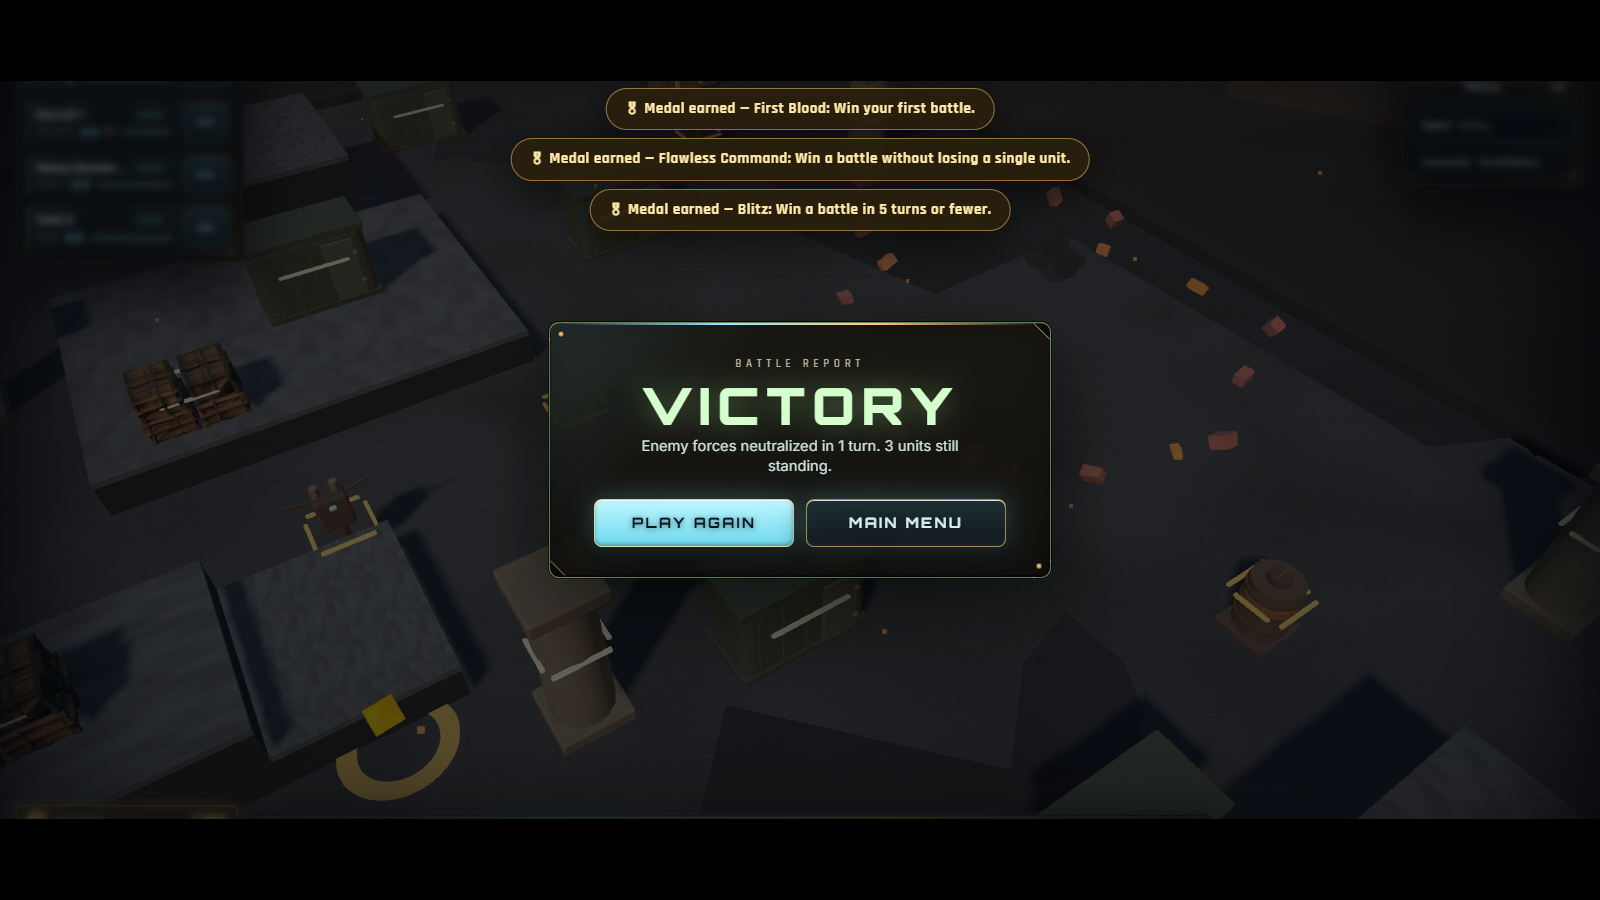
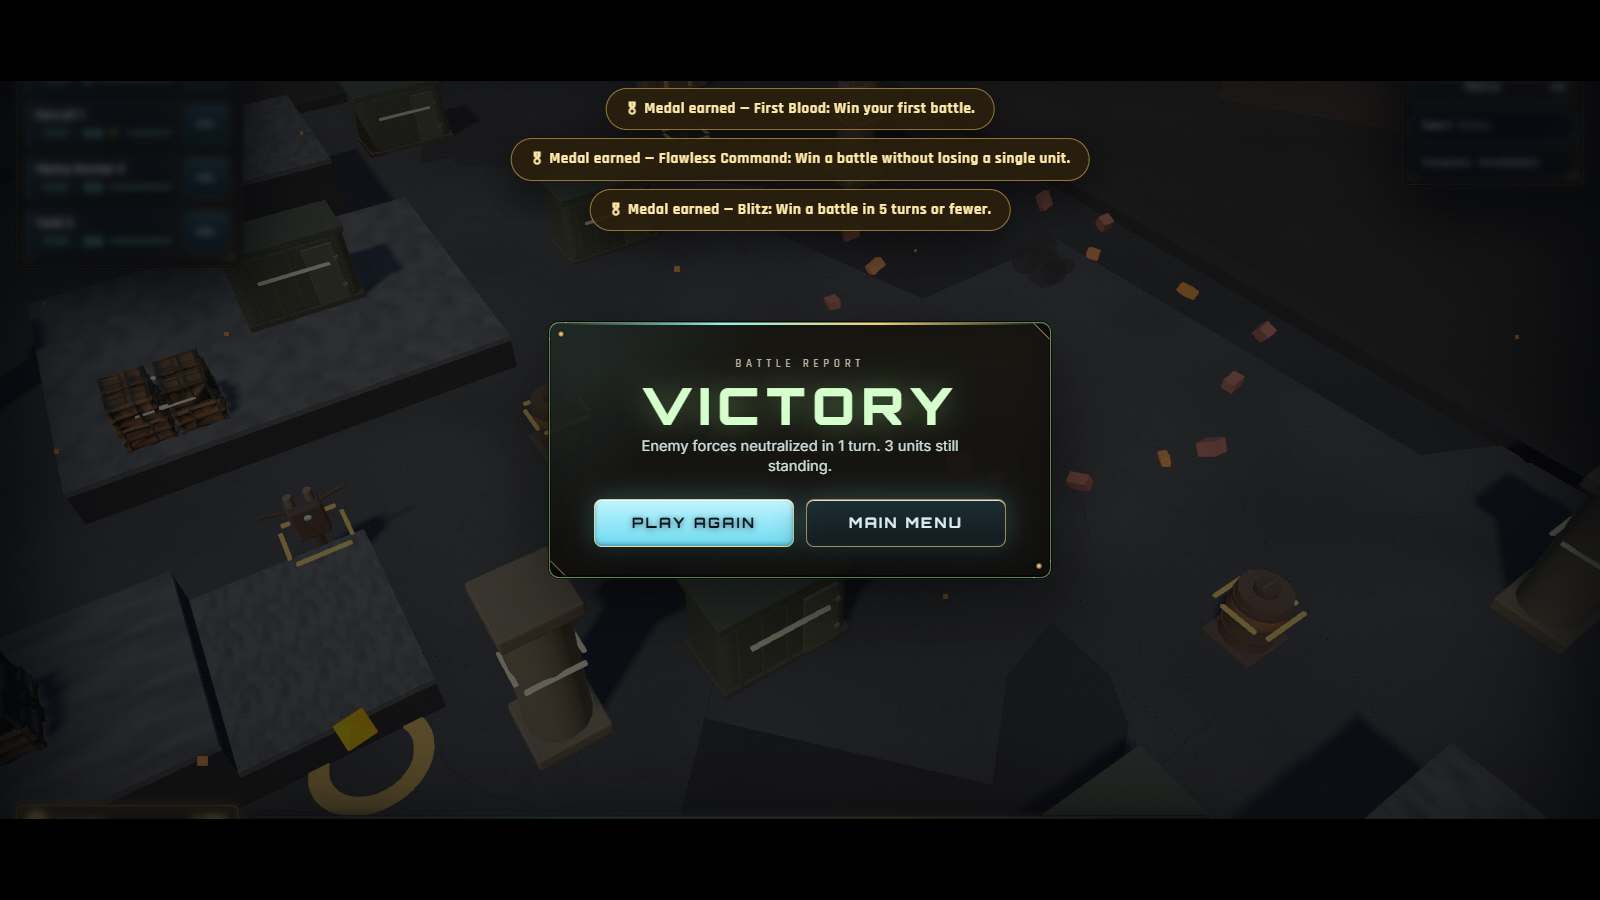
Range as a board field; kill both ground-striping artefacts
The action range was a RingGeometry(0.98, 1.02) — a 4%-thick hairline that reads as
a wireframe laid over the game rather than as part of the board. Direction A wants
reach shown as a board overlay, so it is a field now: a soft tinted area brightening
into a defined rim, shape carried by a 256px gradient texture instead of geometry,
still one mesh and one draw call, tinted per action by the material's own colour.

Then the striping across the ground, which turns out to have been TWO artefacts
wearing the same face:

- Shadow acne on the near-flat arena under a low sun. normalBias has to be several
  shadow texels and was a tenth of one; 0.55 is the measured floor, and 0.4 brings
  the bands back. This is the one `npm run probe:shadow` finds, because turning off
  scenery casting removes it.
- A coplanar z-fight between the ground plates themselves. Four overlapping slabs per
  patch all topped out at exactly y=0, so wherever they overlapped they hatched
  against each other. Each slab is staggered ~2mm in depth now. This one SURVIVES the
  shadow probe — it is a main-pass depth issue, not a shadow one — which is how the
  two can be told apart at all.

Also: the roster hugged nothing and stretched a four-unit squad into a full-height
empty box after yesterday's no-overlap fix. It is back to hugging its content with a
max-height sized off the same gap, so the overlap guarantee holds without the void.
[…]

diff --git a/game/src/render/worldRenderer.ts b/game/src/render/worldRenderer.ts
@@ -165,9 +165,20 @@ export class WorldRenderer {
     this.targetRing.position.y = 0.055;
     this.scene.add(this.targetRing);
 
+    // The action range used to be a 4%-thick hairline ring: at tactical distance that reads as a
+    // wireframe overlaid on the game, not as part of the board. It is a FIELD now — a soft tinted
+    // area that brightens into a defined rim — which is how a tactics board shows reach. Same one
+    // mesh, one draw call; the shape lives in a 256px gradient texture instead of in geometry.
     this.actionRangeRing = new THREE.Mesh(
-      new THREE.RingGeometry(0.98, 1.02, 96),
-      new THREE.MeshBasicMaterial({ color: 0xffbf4d, transparent: true, opacity: 0.42, side: THREE.DoubleSide, depthWrite: false })
+      new THREE.PlaneGeometry(2, 2),
+      new THREE.MeshBasicMaterial({
+        color: 0xffbf4d,
+        map: rangeFieldTexture(),
+        transparent: true,
+        opacity: 0.42,
+        side: THREE.DoubleSide,
+        depthWrite: false,
+      })
     );
     this.actionRangeRing.rotation.x = -Math.PI / 2;
     this.actionRangeRing.position.y = 0.06;
@@ -2683,7 +2694,8 @@ export class WorldRenderer {
     this.actionRangeRing.scale.setScalar(range.radius * (1 + pulse * 0.01));
     const mat = this.actionRangeRing.material as THREE.MeshBasicMaterial;
     mat.color.setHex(range.kind === "melee" ? 0xd28cff : range.kind === "grenade" ? 0xff7f67 : range.kind === "move" ? 0x9dfcff : 0xffbf4d);
-    mat.opacity = 0.34 + pulse * 0.16;
+    // A field carries far more ink than a hairline did, so it sits lower in opacity.
+    mat.opacity = 0.46 + pulse * 0.12;
   }
 
   // Faint rings showing the reach of support/spotter auras (medic, engineer, scout, sniper),
@@ -4586,8 +4598,12 @@ function makeGroundPlates(theme: MapTheme, width: number, depth: number, surface
         // terrace the player can walk straight over is a lie about the terrain.
         const geo = new RoundedBoxGeometry(w, PLATE_THICKNESS, d, 1, Math.min(1.4, Math.min(w, d) * 0.3));
         const m = new THREE.Matrix4()
+          // Stagger each slab of a patch a couple of millimetres in depth. Four overlapping slabs
+          // all topping out at exactly y=0 are COPLANAR where they overlap, and coplanar surfaces
+          // z-fight into a fine parallel hatch — the second of the two striping artefacts on the
+          // ground, and the one the shadow work could never have fixed.
           .makeRotationY(spin + (rand() - 0.5) * 1.6)
-          .setPosition(cx + (rand() - 0.5) * 7, 0, cz + (rand() - 0.5) * 7);
+          .setPosition(cx + (rand() - 0.5) * 7, -k * 0.0018, cz + (rand() - 0.5) * 7);
         geo.applyMatrix4(m);
         parts.push(geo);
       }
@@ -5208,6 +5224,37 @@ const CARRY_PITCH = 0.34;
 const CARRY_YAW = -0.26;
 const CARRY_PIVOT_Y = 0.93;
 const CARRY_PIVOT_Z = 0.12;
+
+/**
+ * The range-field gradient: transparent at the centre, a low tint across the body, brightening into
+ * a defined rim just inside the edge and falling off outside it. Tinted per use by the material's
+ * own colour, so one texture serves move / shoot / grenade / melee.
+ */
+let _rangeFieldTexture: THREE.CanvasTexture | undefined;
+
+function rangeFieldTexture(): THREE.CanvasTexture {
+  if (_rangeFieldTexture) return _rangeFieldTexture;
+  const size = 256;
+  const canvas = document.createElement("canvas");
+  canvas.width = canvas.height = size;
+  const ctx = canvas.getContext("2d");
+  if (ctx) {
+    const g = ctx.createRadialGradient(size / 2, size / 2, 0, size / 2, size / 2, size / 2);
+    g.addColorStop(0, "rgba(255,255,255,0.10)");
+    g.addColorStop(0.55, "rgba(255,255,255,0.26)");
+    g.addColorStop(0.88, "rgba(255,255,255,0.55)");
+    g.addColorStop(0.965, "rgba(255,255,255,1)");
+    g.addColorStop(0.995, "rgba(255,255,255,0.55)");
+    g.addColorStop(1, "rgba(255,255,255,0)");
+    ctx.fillStyle = g;
+    ctx.fillRect(0, 0, size, size);
+  }
+  const texture = new THREE.CanvasTexture(canvas);
+  texture.colorSpace = THREE.SRGBColorSpace;
+  texture.userData.shared = true;
+  _rangeFieldTexture = texture;
+  return texture;
+}
 
 // Hex -> Color memo. THREE.Color.setHex re-runs the sRGB->linear conversion on every call, and
 // paintPart asks for a handful of fixed tint/glow constants for every part mesh every frame — that

diff --git a/game/src/style.css b/game/src/style.css
@@ -5222,8 +5222,11 @@ body.killcam::after { bottom: 0; }
    --------------------------------------------------------------------------- */
 .panel.roster {
   top: 16px;
-  bottom: 106px;
-  max-height: none;
+  /* Hug the content, but never reach the bottom-left stack. Anchoring top AND bottom stretched a
+     four-unit squad into a full-height empty box; a max-height sized off the same gap keeps the
+     no-overlap guarantee without the void. */
+  bottom: auto;
+  max-height: calc(100vh - 122px);
   overflow-y: auto;
   overscroll-behavior: contain;
 }

diff --git a/game/src/render/stage.ts b/game/src/render/stage.ts
@@ -167,7 +167,7 @@ export class Stage {
     // banding — the dashes visible across the ground in every screenshot, which read as a texture
     // artefact and are not one. Roughly four texels of normal bias clears it without detaching
     // contact shadows from the units that cast them.
-    key.shadow.normalBias = 0.14;
+    key.shadow.normalBias = 0.55;
     this.keyLight = key;
     this.scene.add(key);
 

diff --git a/CLAUDE.md b/CLAUDE.md
@@ -190,6 +190,15 @@ Standard three-layer split (pure sim → read-only renderer → DOM HUD, composi
   68% of every surface with a light salmon, so enemy armour, walls and HQs all came out pale pink.
   The team read is carried by the marker ring, the accent trim and the emissive glow; a hull only
   has to sit in the right hue family. See `setFactionTints`/`roleColor`.
+- **TWO different striping artefacts have looked identical on the ground.** Both are fixed; both
+  will come back if their cause is reintroduced. (1) SHADOW ACNE on the near-flat arena under a low
+  sun — `shadow.normalBias` has to be several shadow texels, not a tenth of one; 0.55 is the
+  measured floor and anything under ~0.5 brings the bands back. (2) COPLANAR Z-FIGHT between the
+  ground plates: four overlapping slabs per patch, all topping out at exactly y=0, hatch against
+  each other, so each slab is staggered ~2mm in depth. Neither is a texture problem — three rounds
+  of texture tuning were spent on them before anyone measured. `npm run probe:shadow <scenario>`
+  bisects the first; the second survives that probe (it is a main-pass depth issue, not a shadow
+  one), which is how they can be told apart.
 - **The shadow frustum FOLLOWS THE CAMERA FOCUS** (`syncShadowFrustum` in `stage.ts`), snapped to
   whole shadow texels so edges don't crawl when the camera pans. `SHADOW_RADIUS` must cover
   everything on screen: three clamps the shadow map at its edges, so anything outside the window
